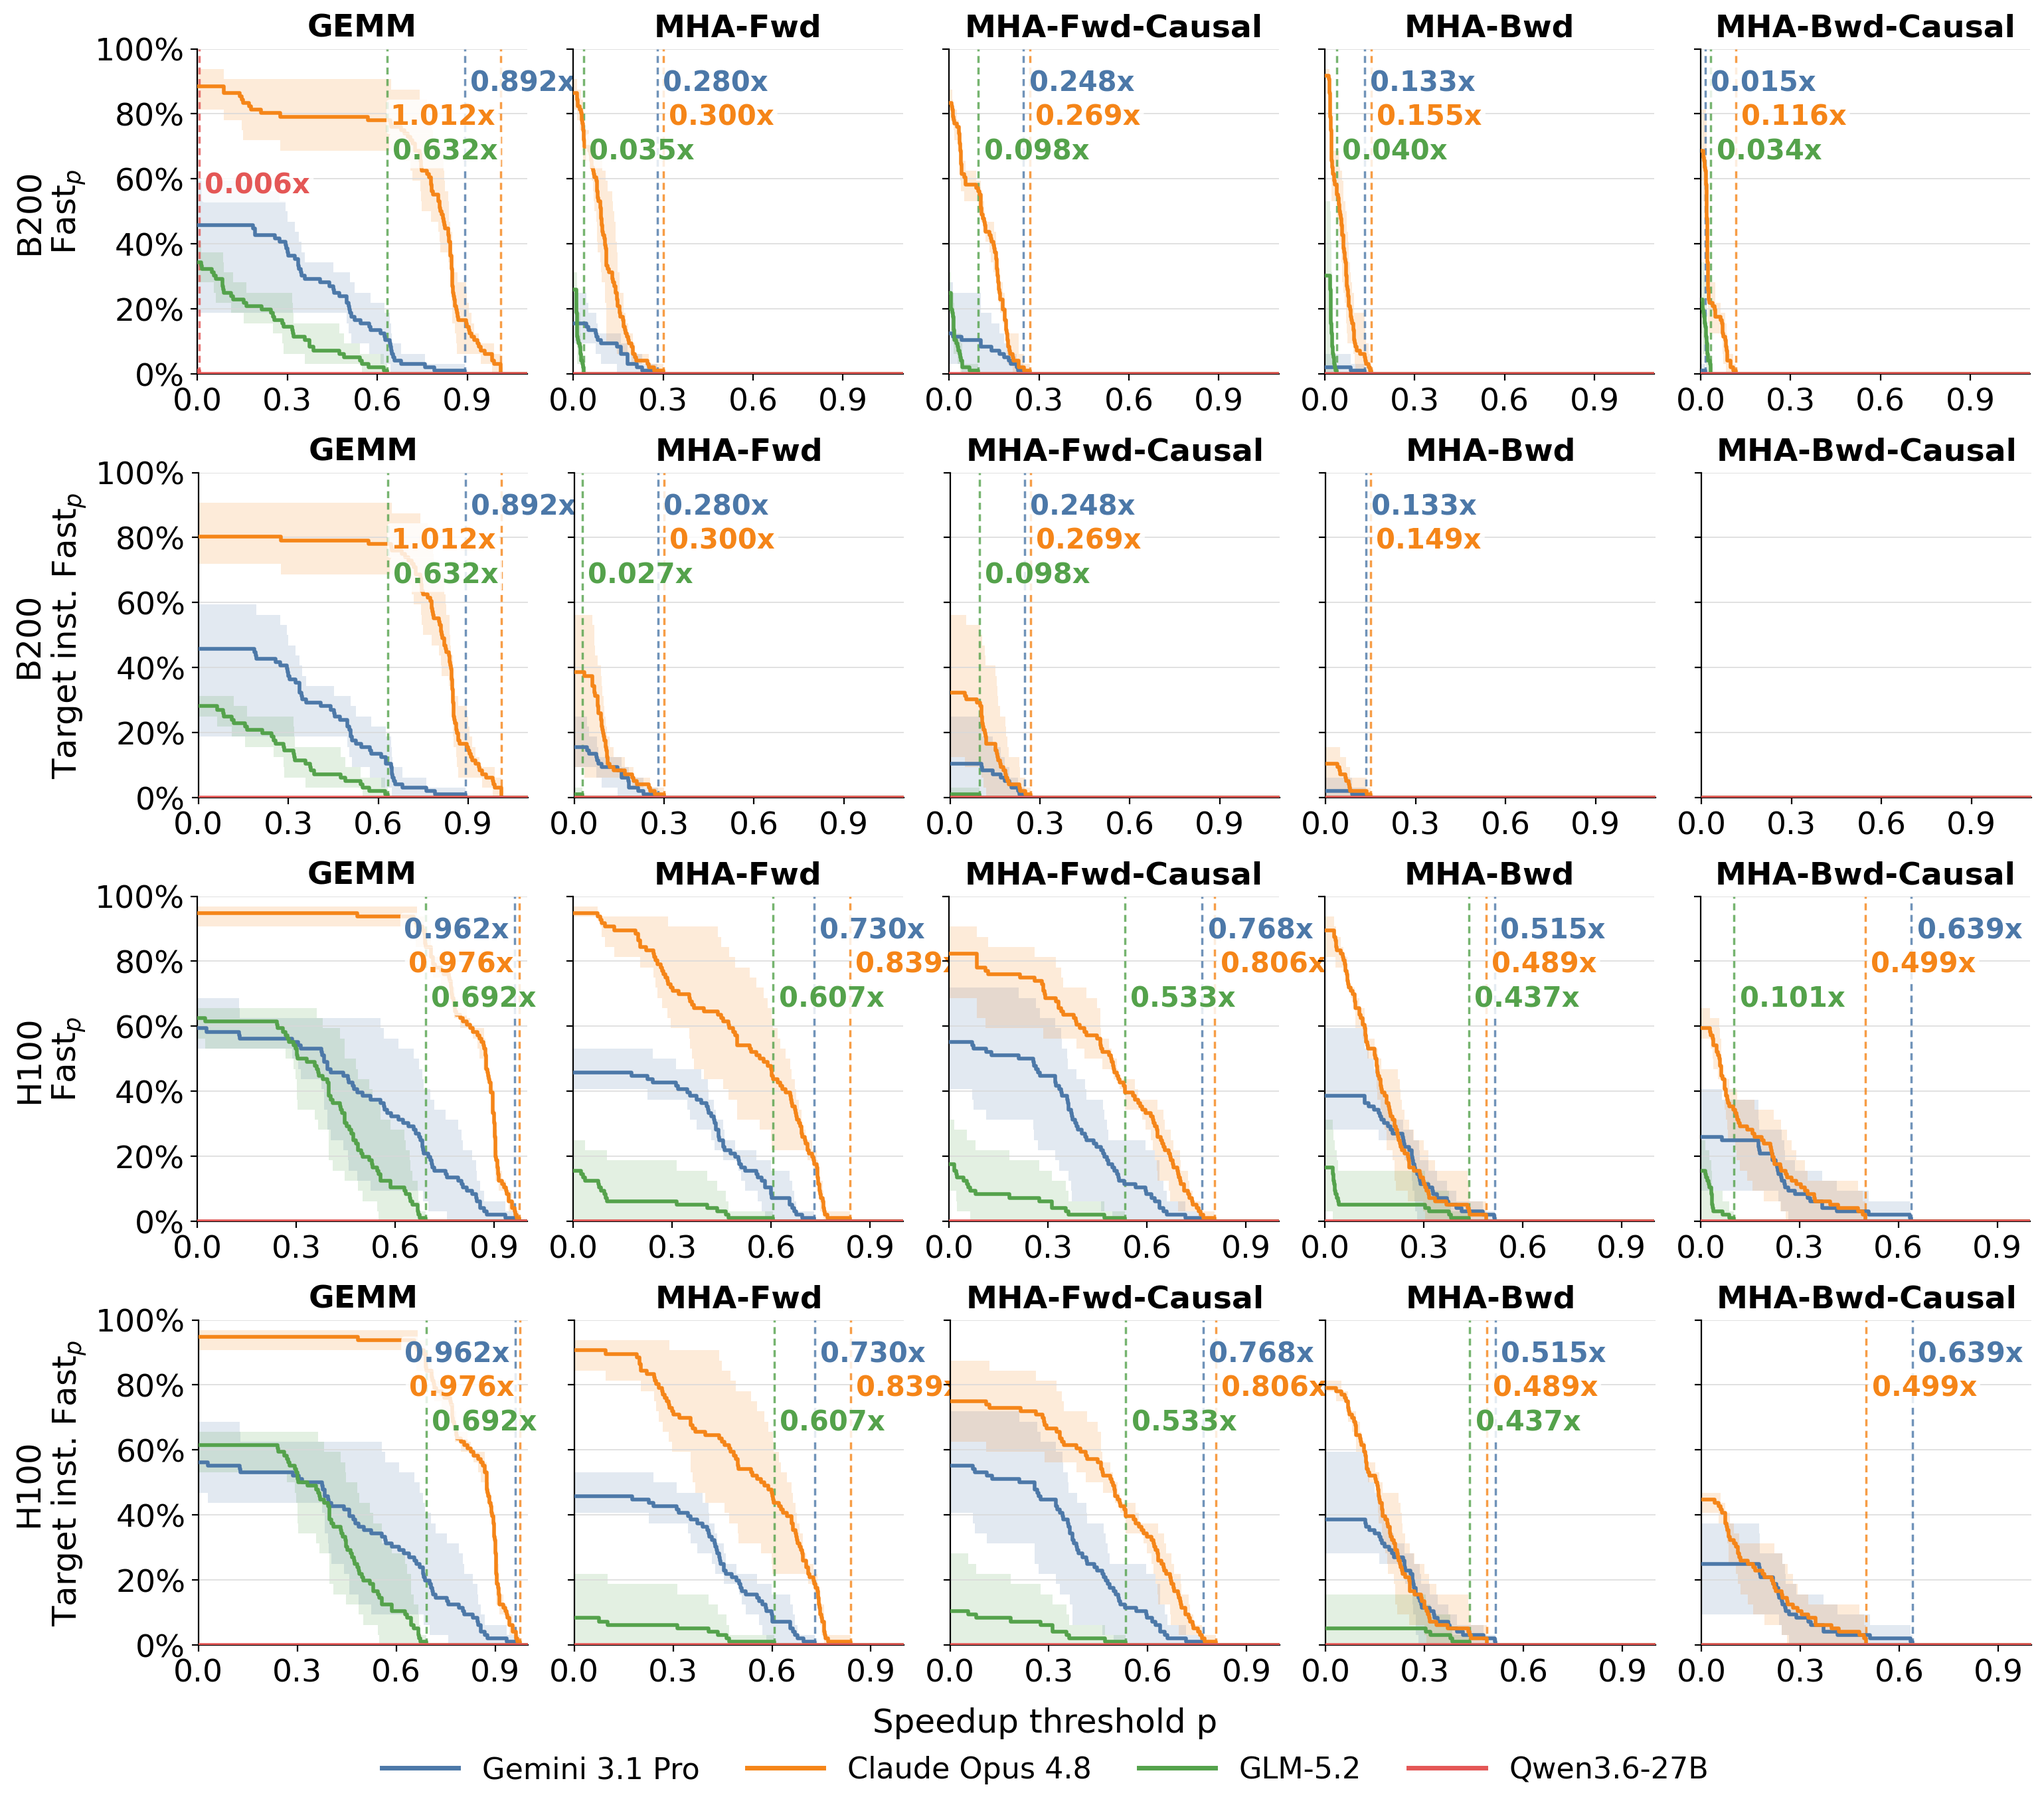
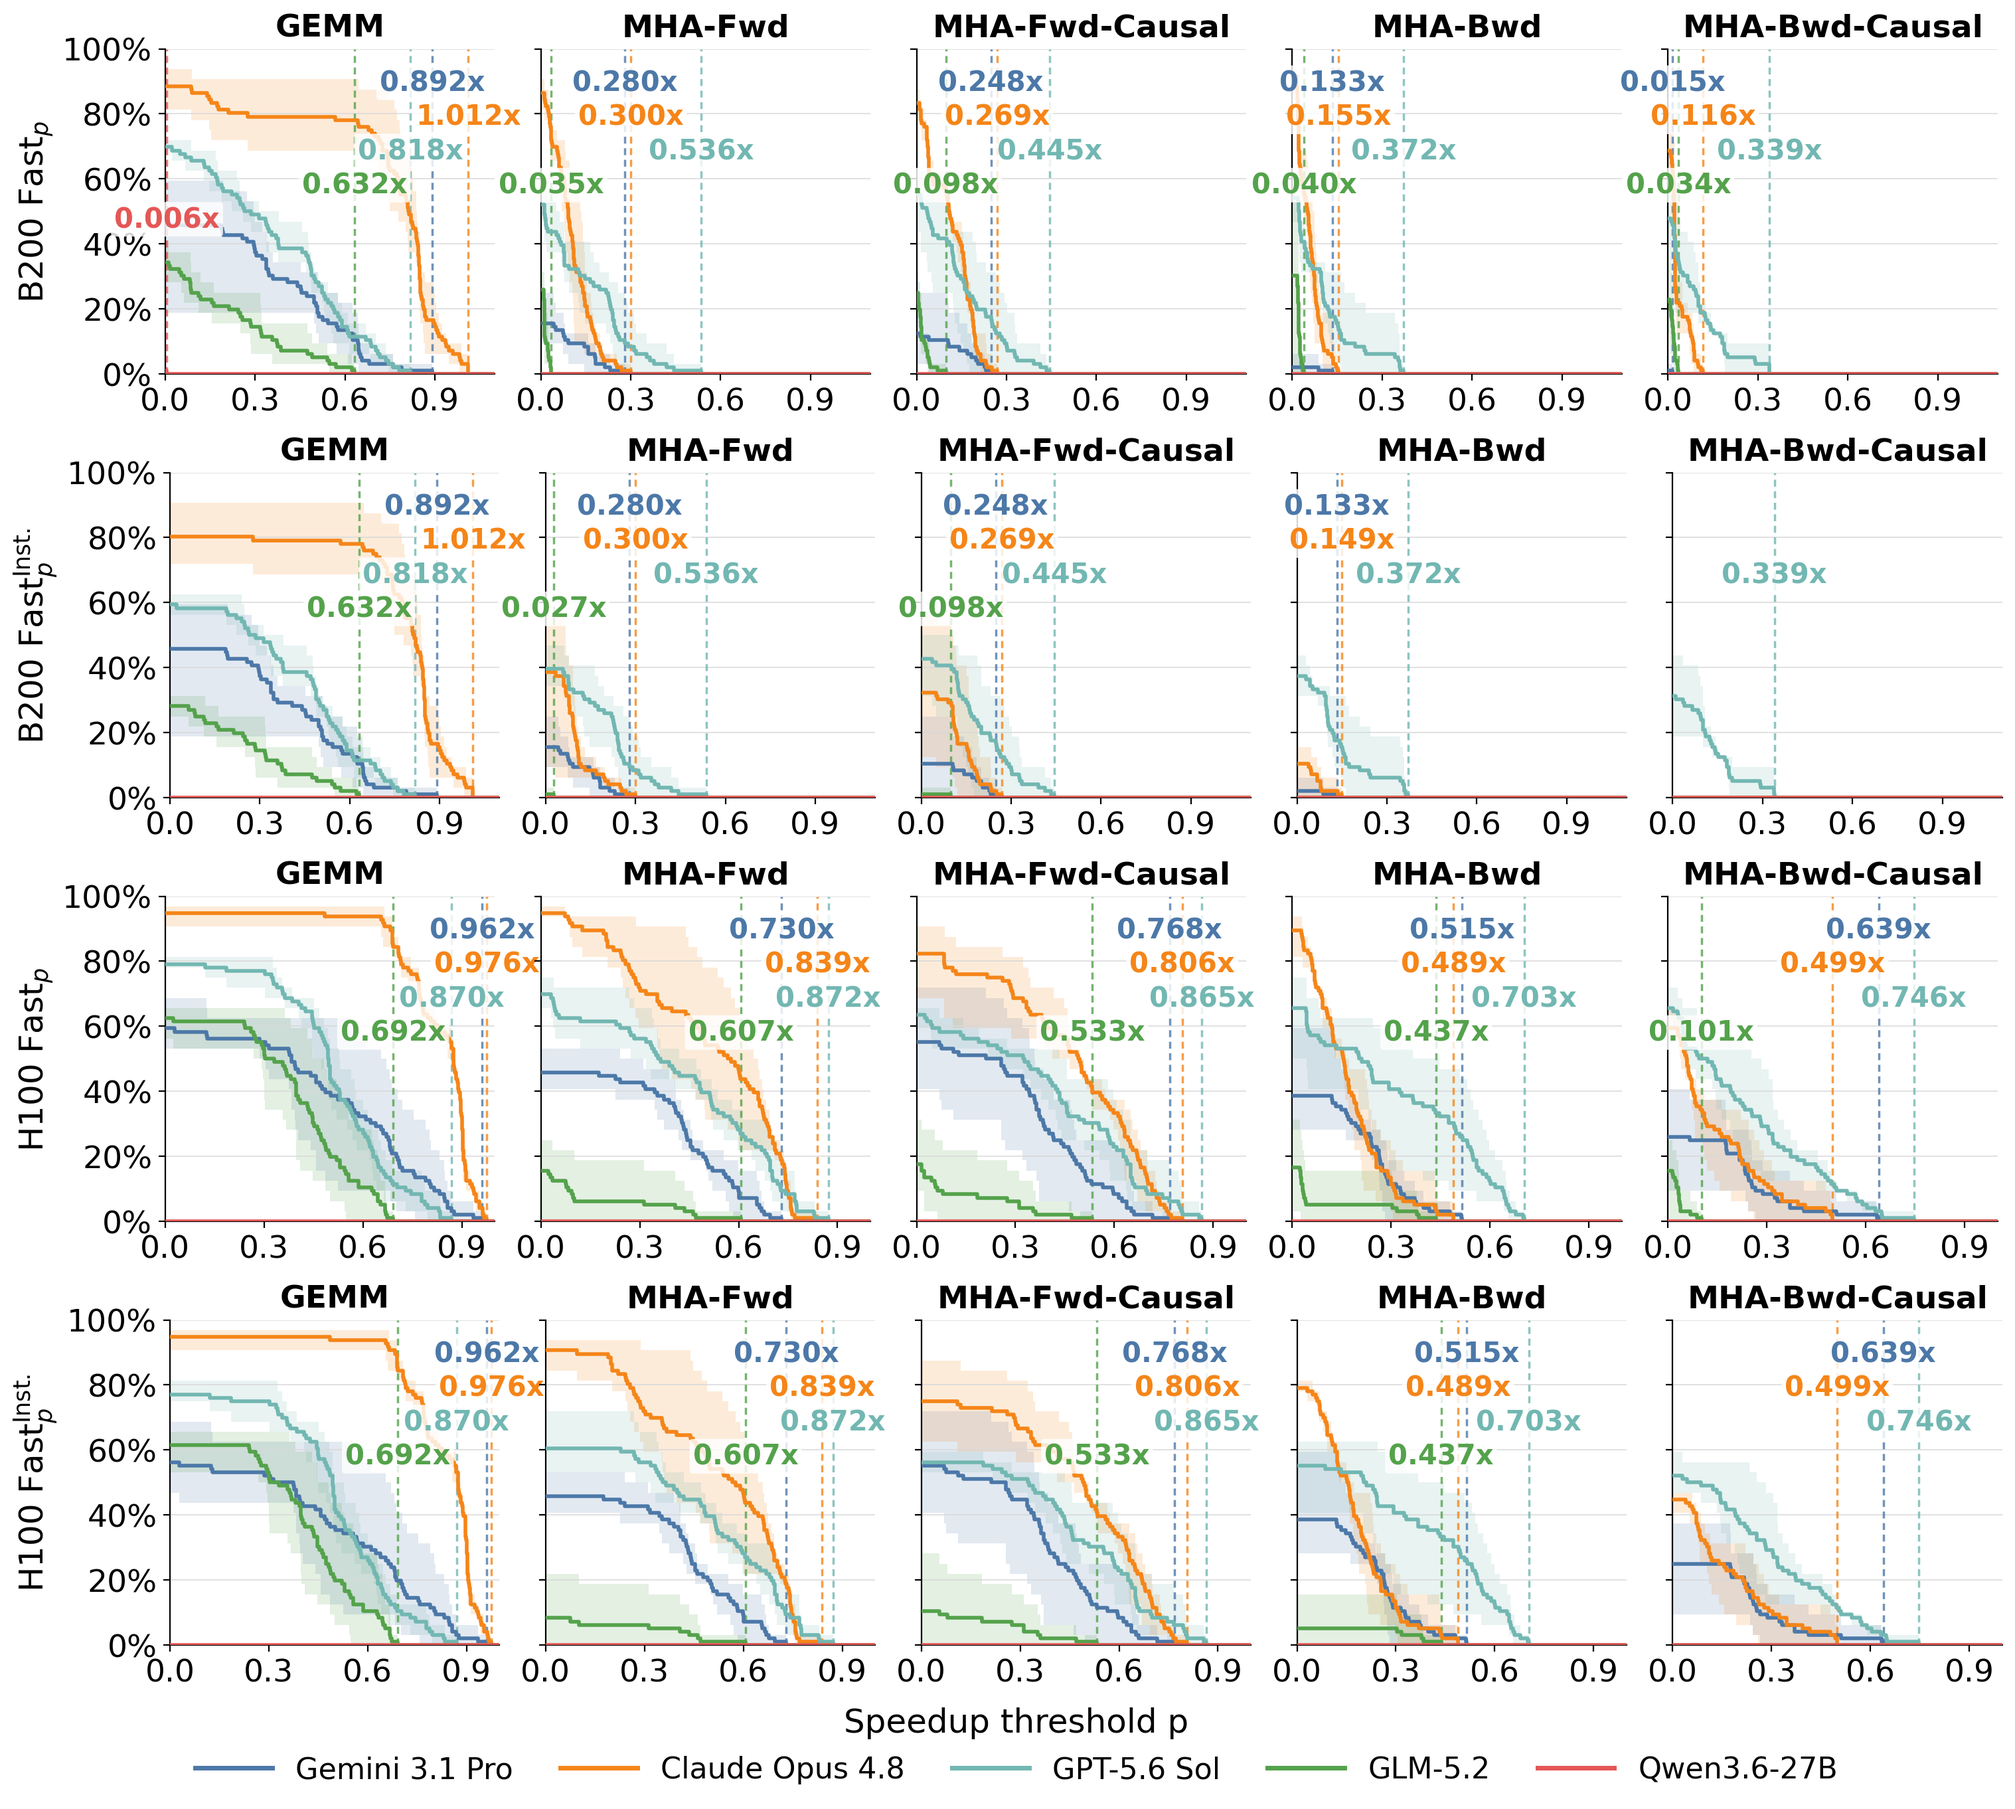
Update results

diff --git a/blog_md/ptxbench.md b/blog_md/ptxbench.md
@@ -37,7 +37,7 @@ Figure 1 uses two different kinds of ratios. The x-axis \(p\) is a speedup thres
 
 # Takeaway 2: A small, well-constructed SFT dataset can pay off
 
-Specializing a model for CUDA-PTX may not require an enormous corpus. PTXBench adapts Qwen3.6-27B with Fixit examples built from the base model's failed kernels, execution feedback, teacher repairs, and synthesized repair rationales. The smallest balanced recipe that solves all five primary evaluation problems contains only 158 records, whereas the base model produces no correct kernel on any Hopper workload in the main model comparison. The improvement is meaningful but not universal: the adapted model transfers to GEMM, all four head-dimension-64 attention tasks, and two head-dimension-96 forward tasks, yet fails on head-dimension-96 backward attention and GQA. Coverage, balance, and teacher quality therefore matter at least as much as raw dataset size.
+Specializing a model for CUDA-PTX may not require an enormous corpus. PTXBench adapts Qwen3.6-27B with Fixit examples built from the base model's failed kernels, execution feedback, teacher repairs, and synthesized repair rationales. The smallest balanced recipe that solves all five primary evaluation problems contains only 158 records, whereas the base model produces no correct kernel on any Hopper workload in the main model comparison. The improvement is meaningful but not universal: the adapted model transfers to GEMM, all four head-dimension-64 attention tasks, both head-dimension-96 forward tasks, and—at a much lower success rate—GQA, yet still fails on head-dimension-96 backward attention. Coverage, balance, and teacher quality therefore matter at least as much as raw dataset size.
 
 <div class="figure">
   <img src="/assets/img/fixitv2_generalization_heatmap.png" alt="Generalization of a repair-conditioned PTX model across held-out workloads">
@@ -59,7 +59,7 @@ Cross-language transfer is more mixed (Figure 3). On the same five Hopper worklo
 
 # Takeaway 3: Abstractions still matter, but cracks are appearing
 
-Higher-level abstractions still provide a major robustness advantage. When Gemini 3.1 Pro generates Triton and CUDA-PTX for the same tasks, the two are relatively close on Hopper: CUDA-PTX nearly matches Triton on GEMM and slightly exceeds its peak on causal MHA forward, 0.768x versus 0.759x the frontier-library baseline. On Blackwell attention, however, the gap widens dramatically; Triton reaches 0.484x and 0.436x on the two backward workloads, compared with only 0.133x and 0.015x for CUDA-PTX. Compilers therefore remain essential, especially on newer architectures, but the selective Hopper wins are the first cracks in the assumption that an LLM must always work through a higher-level kernel language.
+Higher-level abstractions still provide a major robustness advantage. When Gemini 3.1 Pro generates Triton and CUDA-PTX for the same tasks, the two are closest on Hopper GEMM and causal MHA forward: Triton reaches 0.991x versus 0.962x for CUDA-PTX on GEMM, and 0.789x versus 0.768x on causal MHA forward. On Blackwell attention, however, the gap widens dramatically; Triton reaches 0.514x and 0.437x on the two backward workloads, compared with only 0.133x and 0.015x for CUDA-PTX. Compilers therefore remain essential, especially on newer architectures, but the narrow Hopper gaps on selected workloads show that direct CUDA-PTX generation is becoming competitive.
 
 <div class="figure">
   <img src="/assets/img/gemini31_triton_cuda_h100_b200_fast_at_p.png" alt="Gemini 3.1 Pro comparison between Triton and CUDA-PTX">
